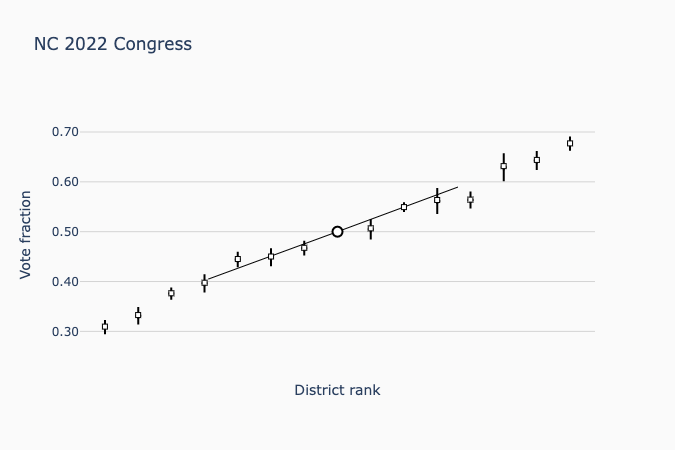
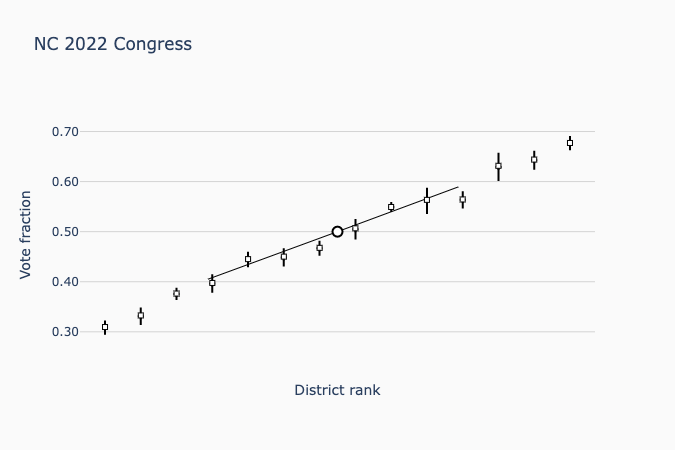
Fixed pivot shift

diff --git a/method_eval/plot_rv_graph.py b/method_eval/plot_rv_graph.py
@@ -56,27 +56,25 @@ def plot_rv_graph(data):
         sortedMeans.append(d["MEAN"])
         sortedErrs.append(d["SEM"] * 1.96)
 
-    # HACK to fix the relative positions of the districts & pivot point
     # Step 6 - Create an array of district ranks that correspond to the 1–N ordering.
-    # districtRanks = [rank(i + 1, N) for i in range(0, N)]
+    districtRanks = [(i + 1) / N for i in range(0, N)]
 
     # Step 7 - Split the sorted Vf, rank, and label arrays into R and D subsets.
 
     nRWins = len([x for x in sortedVfArray if x <= 0.5])  # Ties credited to R's
     rWinVfs = sortedVfArray[0:nRWins]
+    rWinRanks = districtRanks[0:nRWins]
     rWinLabels = sortedLabels[0:nRWins]
     rMeans = sortedMeans[0:nRWins]
     rErrs = sortedErrs[0:nRWins]
 
     dWinVfs = sortedVfArray[nRWins:]
+    dWinRanks = districtRanks[nRWins:]
     dWinLabels = sortedLabels[nRWins:]
     dMeans = sortedMeans[nRWins:]
     dErrs = sortedErrs[nRWins:]
 
-    # Revised rank logic
     bSweep = True if (nRWins == N) or (nRWins == 0) else False
-    Sb = data["rvPoints"]["Sb"]
-    rWinRanks, dWinRanks, rankRange = rankDistricts(N, Sb, nRWins)
 
     # CREATE THE TRACES
 
@@ -146,17 +144,24 @@ def plot_rv_graph(data):
         X = 0
         Y = 1
 
-        # Sb = data["rvPoints"]["Sb"]
+        Sb = data["rvPoints"]["Sb"]
         Ra = data["rvPoints"]["Ra"]
         Rb = data["rvPoints"]["Rb"]
         Va = data["rvPoints"]["Va"]
         Vb = data["rvPoints"]["Vb"]
 
+        # Shift the pivot point to halfway between the R & D districts
+
+        shift = (2 * nRWins + 1) / (2 * N) - (1 - Sb)
+
         # Convert R vote shares (used in dra-score for 'decl') to D vote shares
 
-        rDeclPt = [(1 - Ra), (1 - Va)]
-        dDeclPt = [(1 - Rb), (1 - Vb)]
-        pivotDeclPt = [(1 - Sb), 0.5]
+        pivotDeclPt = [(1 - Sb) + shift, 0.5]
+        # pivotDeclPt = [(1 - Sb), 0.5]
+        rDeclPt = [(1 - Ra) + shift, (1 - Va)]
+        # rDeclPt = [(1 - Ra), (1 - Va)]
+        dDeclPt = [(1 - Rb) + shift, (1 - Vb)]
+        # dDeclPt = [(1 - Rb), (1 - Vb)]
 
         # Make traces for the R & D line segments and the pivot point
 
@@ -250,6 +255,9 @@ def plot_rv_graph(data):
     heightPct = vfRange[1] - vfRange[0]
     diagramHeight = 700 if ((heightPct * diagramWidth) > 450) else 450
 
+    pad = 0.05
+    rankRange = [1 / N - pad, 1 + pad]
+
     rvLayout = go.Layout(
         title=name,
         width=diagramWidth,
@@ -285,36 +293,37 @@ def plot_rv_graph(data):
 ### HELPERS ###
 
 
-def rankDistricts(N, Sb, nRWins):
-    """
-    Compute left-to-right district "ranks" for the r(v) graph.
-    - Compute N + 1 ranks, where N is the # of districts.
-      The extra position is to accommodate the pivot point.
-    - Shift the district ranks so that the spacing of all districts and
-      the pivot point is equal.
-    - Make the rank/x-axis be from the first rank minus a pad to the last rank plus a pad.
+# DELETE
+# def rankDistricts(N, Sb, nRWins):
+#     """
+#     Compute left-to-right district "ranks" for the r(v) graph.
+#     - Compute N + 1 ranks, where N is the # of districts.
+#       The extra position is to accommodate the pivot point.
+#     - Shift the district ranks so that the spacing of all districts and
+#       the pivot point is equal.
+#     - Make the rank/x-axis be from the first rank minus a pad to the last rank plus a pad.
 
-    - Handle both D & R sweeps, i.e. no pivot point.
-    """
+#     - Handle both D & R sweeps, i.e. no pivot point.
+#     """
 
-    bSweep = True if (nRWins == N) or (nRWins == 0) else False
+#     bSweep = True if (nRWins == N) or (nRWins == 0) else False
 
-    nRanks = N if bSweep else N + 1
-    pivotRank = 1 - Sb
+#     nRanks = N if bSweep else N + 1
+#     pivotRank = 1 - Sb
 
-    districtRanks = [(i + 1) / nRanks for i in range(0, nRanks)]
+#     districtRanks = [(i + 1) / nRanks for i in range(0, nRanks)]
 
-    if not bSweep:
-        shift = pivotRank - districtRanks[nRWins]
-        districtRanks = list(map(lambda x: x + shift, districtRanks))
+#     if not bSweep:
+#         shift = pivotRank - districtRanks[nRWins]
+#         districtRanks = list(map(lambda x: x + shift, districtRanks))
 
-    rWinRanks = districtRanks[0:nRWins] if nRWins > 0 else []
-    dWinRanks = districtRanks[nRWins + 1 :] if nRWins < N else []
+#     rWinRanks = districtRanks[0:nRWins] if nRWins > 0 else []
+#     dWinRanks = districtRanks[nRWins + 1 :] if nRWins < N else []
 
-    pad = 0.05
-    rankRange = [districtRanks[0] - pad, districtRanks[-1] + pad]
+#     pad = 0.05
+#     rankRange = [districtRanks[0] - pad, districtRanks[-1] + pad]
 
-    return rWinRanks, dWinRanks, rankRange
+#     return rWinRanks, dWinRanks, rankRange
 
 
 def distance(pt1, pt2):
